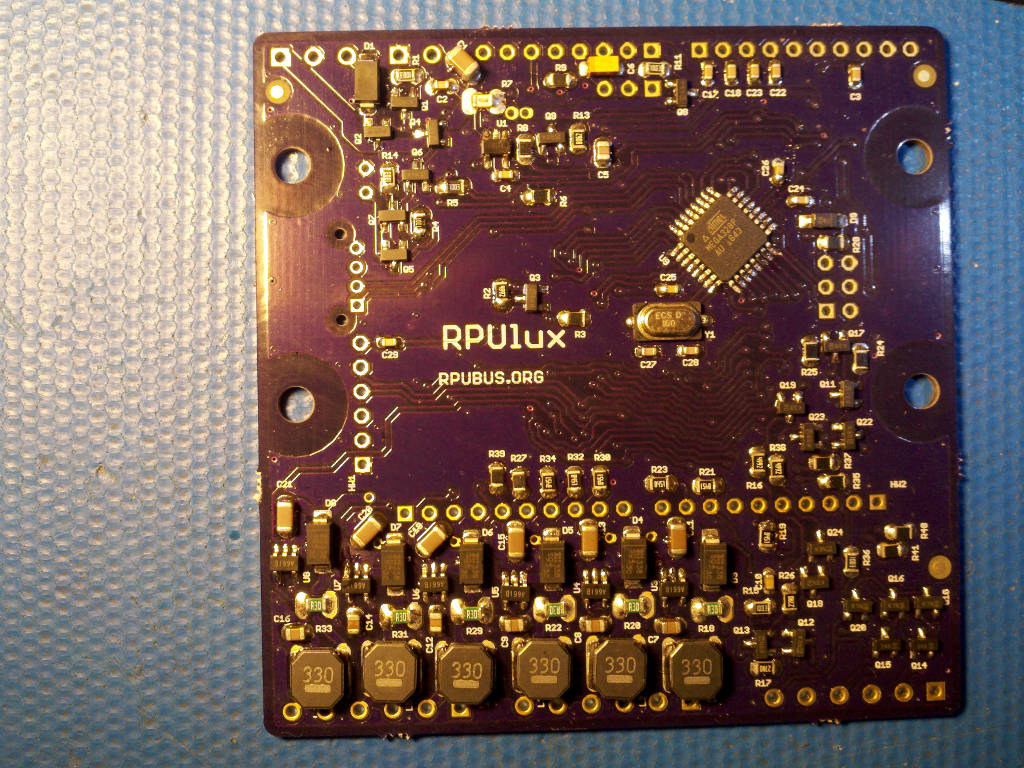
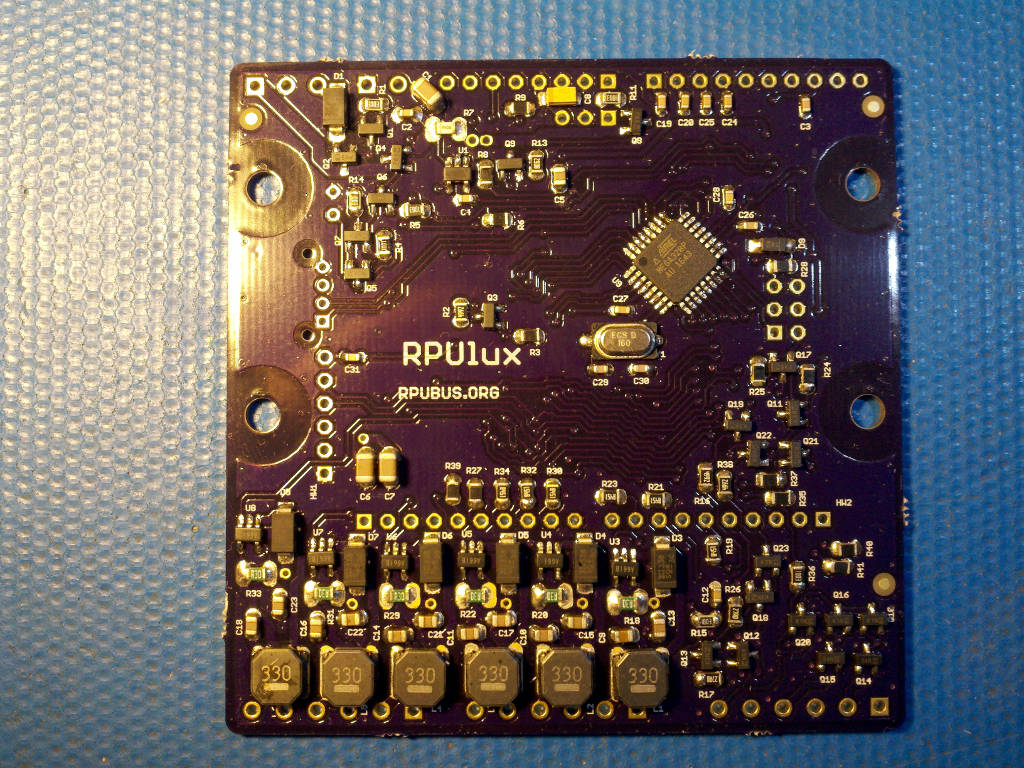
Hardware: ^2 assembly done

diff --git a/Hardware/Testing/readme.md b/Hardware/Testing/readme.md
@@ -53,9 +53,9 @@ Apply a current limited (20mA) supply set with 5V to the PWR and 0V connector J7
 Apply a current limited (20mA) supply set with 7V to the PWR and 0V connector J7 and verify that the voltage does get through. Adjust the supply so the LED is on and stable and measure voltage, adjust supply to 30V measure input current. 
 
 ```
-{ "LEDON_V":[10.7,10.7,],
-  "PWR@7V_mA":[1.9,1.9,],
-  "PWR@30V_mA":[3.0,3.2,]}
+{ "LEDON_V":[10.7,10.7,10.7,],
+  "PWR@7V_mA":[1.9,1.9,1.8,],
+  "PWR@30V_mA":[3.0,3.2,3.1,]}
 ```
 
 
@@ -64,7 +64,7 @@ Apply a current limited (20mA) supply set with 7V to the PWR and 0V connector J7
 Apply a 30mA current limited 5V source to +5V (J6). Check that the input current is for a blank MCU (e.g. less than 7mA). Turn off the power.
 
 ```
-{ "I_IN_BLANKMCU_mA":[3.8,3.6,]}
+{ "I_IN_BLANKMCU_mA":[3.8,3.6,3.2,]}
 ```
 
 ## Set MCU Fuse and Install Bootloader
@@ -98,7 +98,7 @@ make isp
 Disconnect the ISP tool and measure the input current, wait for the power to be settled. Turn off the power.
 
 ```
-{ "I_IN_16MHZ_EXT_CRYST_mA":[12.9,11.3,]}
+{ "I_IN_16MHZ_EXT_CRYST_mA":[12.9,11.3,10.9,]}
 ```
 
 Add U2 to the board now. Measurement of the input current is for referance (takes a long time to settle).
@@ -109,9 +109,9 @@ Add U2 to the board now. Measurement of the input current is for referance (take
 Install U2 and measure its output voltage and input current with the supply set at 12.8V and a 30mA current limit. Measure recover voltage after dropout (e.g. PWR voltage at which +5V recovers after droping).
 
 ```
-{ "+5V_V":[5.00,4.98,],
-  "PWR12V8_mA":[8.6,8.0,],
-  "PWR-DR_V":[6.0,6.7,]}
+{ "+5V_V":[5.00,4.98,4.95,],
+  "PWR12V8_mA":[8.6,8.0,7.6,],
+  "PWR-DR_V":[6.0,6.7,6.5,]}
 ```
 
 

diff --git a/Hardware/Evaluation/readme.md b/Hardware/Evaluation/readme.md
@@ -7,7 +7,24 @@ This shows the setup and method used for evaluation of RPUlux.
 
 # Table Of Contents:
 
+1. ^1 Demo Setup
 1. ^1 AL8805 Curr Sense is Unlike Datasheet
+
+
+## ^1 Demo Setup
+
+Build a demo setup. I used some firewood to make a lamp, it has a hole drilled from the top to the bottome (that is no easy task to get alligned). I soldered some copper grounding wire togather to act as a frame and a heat spreader for the LED's. There are two [RD] and four [WH] strings each having three Cree XPE2 LED. The three up board configuration needs to disipate 3 Watts of heat at 330mA, whith will get to hot without some sort of heat spreader. 
+
+[RD]: https://www.ledsupply.com/leds/cree-xlamp-xp-e2-color-high-power-led-star
+[WH]: https://www.ledsupply.com/leds/cree-xlamp-xpe2-white-high-power-led
+
+A Raspbery Pi Zero running Raspian stretch lite is installed on an RPUpi^3 shield (it has a WiFi dongle). 
+
+This setup was let run a few weeks with a red led channel set to PWM at 32. The battery charger seems to keep, but since the firmware is not smart about turning off the Pi Zero I did not want to risk a demanding load. 
+
+![DemoSetup](./RPUlux^1+RPUpi^3+LA12V+CH1=3xRD "Demo Setup")
+
+Although the AL8805 is not doing what the datasheet says it does seem to operate correctly.
 
 
 ## ^1 AL8805 Curr Sense is Unlike Datasheet

diff --git a/Hardware/Schooling/readme.md b/Hardware/Schooling/readme.md
@@ -4,6 +4,7 @@ Some lessons I learned doing RPUlux.
 
 # Table Of Contents:
 
+1. ^2 AL8805 still running at 165mA with 0.3 Ohm sense
 1. ^1 AL8805 design, mfg layout
 1. ^0 SMPS design , current sense resistor
 1. ^0 PWR_V divider
@@ -11,6 +12,14 @@ Some lessons I learned doing RPUlux.
 1. ^0 Pull Down Alternate Power Control
 1. ^0 Solar Panel Zener brakedown failure
 
+
+## ^2 AL8805 running at 165mA with 0.3 Ohm sense
+
+The AL8805 layout overhaul on my RPUlux^2 board did not change anything. I feel like a punching bag. 
+
+Adding 0.1uF bypass next to the AL8805 did not change anything noticabley.
+
+![AL8805W5_bypass](./RPUlux^2_bypassTest.jpg "Bypass Next to AL8805")
 
 ## ^1  AL8805 design, mfg layout
 

diff --git a/Hardware/README.md b/Hardware/README.md
@@ -57,9 +57,9 @@ Bootloader options include [optiboot] and [xboot]. Serial bootloaders can't chan
 ![Status](./status_icon.png "RPUlux Status")
 
 ```
-        ^2  Done: Design, Layout, BOM, Review*,
-            WIP: Order Boards,
-            Todo: Assembly, Testing, Evaluation.
+        ^2  Done: Design, Layout, BOM, Review*, Order Boards, Assembly,
+            WIP: Testing, 
+            Todo: Evaluation.
             *during review the Design may change without changing the revision.
             Lbl on 22mA plug next to ADC0 change 13_EN to 12_EN
             Lbl on 22mA plug next to ADC1 change 12_EN to 13_EN
